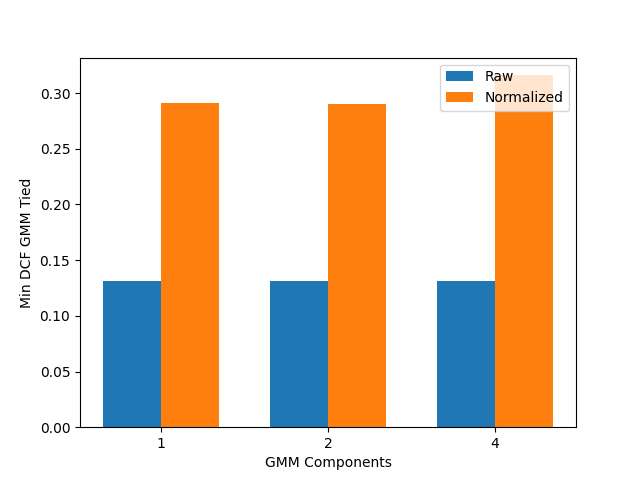
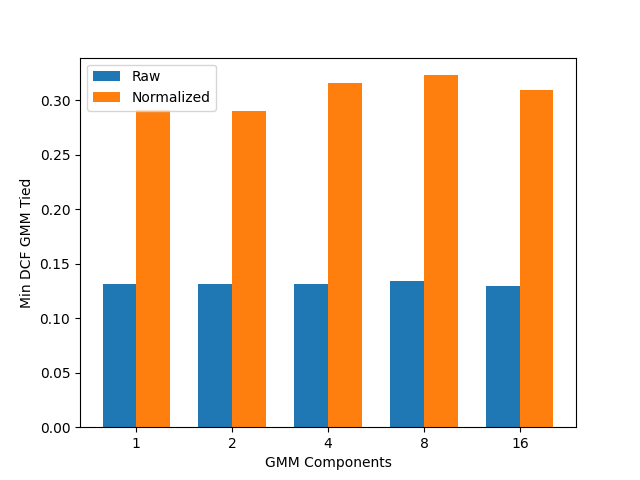
Commit

diff --git a/main.py b/main.py
@@ -9,83 +9,83 @@ from models.GMM import GMMFull, GMMDiagonal, GMMTied
 from utils.Plot import plotHist, HeatMapPearson
 import os
 
-import threading
+import multiprocessing
 
-K = 3
-D, L = load_train()
+if __name__ == '__main__':
+    K = 3
+    D, L = load_train()
 
-plot_path = f"data/Plots/"
+    plot_path = f"data/Plots/"
 
-#plotHist(D, L, plot_path)
-#HeatMapPearson(D, plot_path)
+    #plotHist(D, L, plot_path)
+    #HeatMapPearson(D, plot_path)
 
-if not os.path.exists(getRawPath()) or getSavedRawFoldsK() != K:
-    saveRawFolds(D, L, K)
+    if not os.path.exists(getRawPath()) or getSavedRawFoldsK() != K:
+        saveRawFolds(D, L, K)
 
-if not os.path.exists(getNormPath()) or getSavedNormFoldsK() != K:
-    saveNormFolds(D, L, K)
+    if not os.path.exists(getNormPath()) or getSavedNormFoldsK() != K:
+        saveNormFolds(D, L, K)
 
-L = getShuffledLabels()
+    L = getShuffledLabels()
 
-full = MultiVariate(D, L)
-#full.train(0.5)
+    full = MultiVariate(D, L)
+    #full.train(0.5)
 
-tied = Tied(D, L)
-#tied.train(0.5)
+    tied = Tied(D, L)
+    #tied.train(0.5)
 
-bayes = Bayes(D, L)
-#bayes.train(0.5)
+    bayes = Bayes(D, L)
+    #bayes.train(0.5)
 
-lSet = numpy.logspace(-5,2, num = 10)
-lr = LinearRegression(D, L, lSet, flag=False)
-lr.train(0.5)
-lr.plot(False)
+    lSet = numpy.logspace(-5,2, num = 10)
+    lr = LinearRegression(D, L, lSet, flag=False)
+    #lr.train(0.5)
+    #lr.plot(False)
 
-qr = QuadraticRegression(D, L, lSet, flag=False)
-qr.train(0.5)
-qr.plot(False)
+    qr = QuadraticRegression(D, L, lSet, flag=False)
+    #qr.train(0.5)
+    #qr.plot(False)
 
-K_Set = numpy.array([0.0, 1.0, 10.0])
-C_Set = numpy.logspace(-2,0, num = 10)
-svm_lin = SVMLinear(D, L, K_Set, C_Set, flag = False)
-svm_lin.train(0.5)
-svm_lin.plot(False)
+    K_Set = numpy.array([0.0, 1.0, 10.0])
+    C_Set = numpy.logspace(-2,0, num = 10)
+    #svm_lin = SVMLinear(D, L, K_Set, C_Set, flag = False)
+    #svm_lin.train(0.5)
+    #svm_lin.plot(False)
 
-K_Set = numpy.array([0.0, 1.0, 10.0])
-C_Set = numpy.logspace(-2,0, num = 5)
-d_Set = numpy.array([2.0, 3.0])
-c_Set = numpy.array([0.0, 1.0])
-svm_poly = SVMPoly(D, L, K_Set, C_Set, d_Set, c_Set, flag=False)
-svm_poly.train(0.5)
-svm_poly.plot(False)
+    K_Set = numpy.array([0.0, 1.0, 10.0])
+    C_Set = numpy.logspace(-2,0, num = 5)
+    d_Set = numpy.array([2.0, 3.0])
+    c_Set = numpy.array([0.0, 1.0])
+    #svm_poly = SVMPoly(D, L, K_Set, C_Set, d_Set, c_Set, flag=False)
+    #svm_poly.train(0.5)
+    #svm_poly.plot(False)
 
-K_Set = numpy.array([0.0, 1.0, 10.0])
-C_Set = numpy.logspace(-2,0, num = 5)
-gamma_Set = numpy.logspace(-3,-1, num = 3)
-svm_rbf = SVMRBF(D, L, K_Set, C_Set, gamma_Set)
-svm_rbf.train(0.5)
-svm_rbf.plot()
+    K_Set = numpy.array([0.0, 1.0, 10.0])
+    C_Set = numpy.logspace(-2,0, num = 5)
+    gamma_Set = numpy.logspace(-3,-1, num = 3)
+    svm_rbf = SVMRBF(D, L, K_Set, C_Set, gamma_Set)
+    #svm_rbf.train(0.5)
+    #svm_rbf.plot()
 
+    n_Set = [1,2,4,8,16]
+    gmm_full = GMMFull(D, L, n_Set, flag=False)
 
-n_Set = [1,2,4,8,16]
-gmm_full = GMMFull(D, L, n_Set, flag=False)
+    gmm_diagonal = GMMDiagonal(D, L, n_Set, flag=False)
 
-gmm_diagonal = GMMDiagonal(D, L, n_Set, flag=False)
+    gmm_tied = GMMTied(D, L, n_Set, flag=False)
 
-gmm_tied = GMMTied(D, L, n_Set, flag=False)
+    process_full = multiprocessing.Process(target=gmm_full.train)
+    process_diagonal = multiprocessing.Process(target=gmm_diagonal.train)
+    process_tied = multiprocessing.Process(target=gmm_tied.train)
 
-thread_full = threading.Thread(target=gmm_full.train)
-thread_diagonal = threading.Thread(target=gmm_diagonal.train)
-thread_tied = threading.Thread(target=gmm_tied.train)
+    process_full.start()
+    process_diagonal.start()
+    process_tied.start()
 
-thread_full.start()
-thread_diagonal.start()
-thread_tied.start()
+    process_full.join()
+    process_diagonal.join()
+    process_tied.join()
 
-thread_full.join()
-thread_diagonal.join()
-thread_tied.join()
-
-gmm_full.plot(False)
-gmm_diagonal.plot(False)
-gmm_tied.plot(False)
+    gmm_full.plot(False)
+    gmm_diagonal.plot(False)
+    gmm_tied.plot(False)
